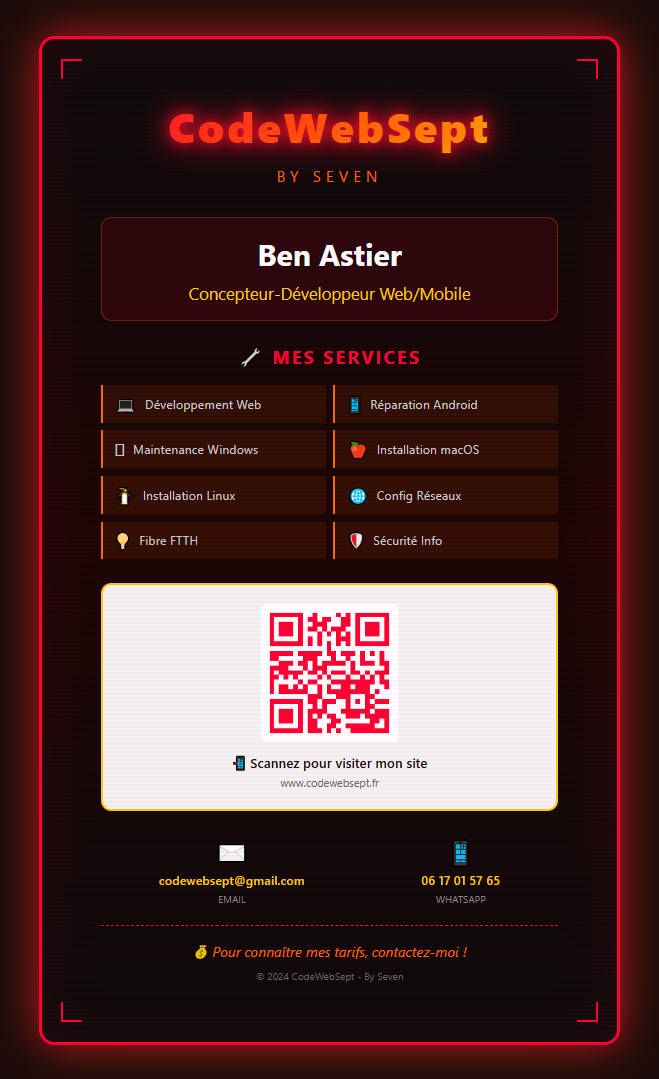
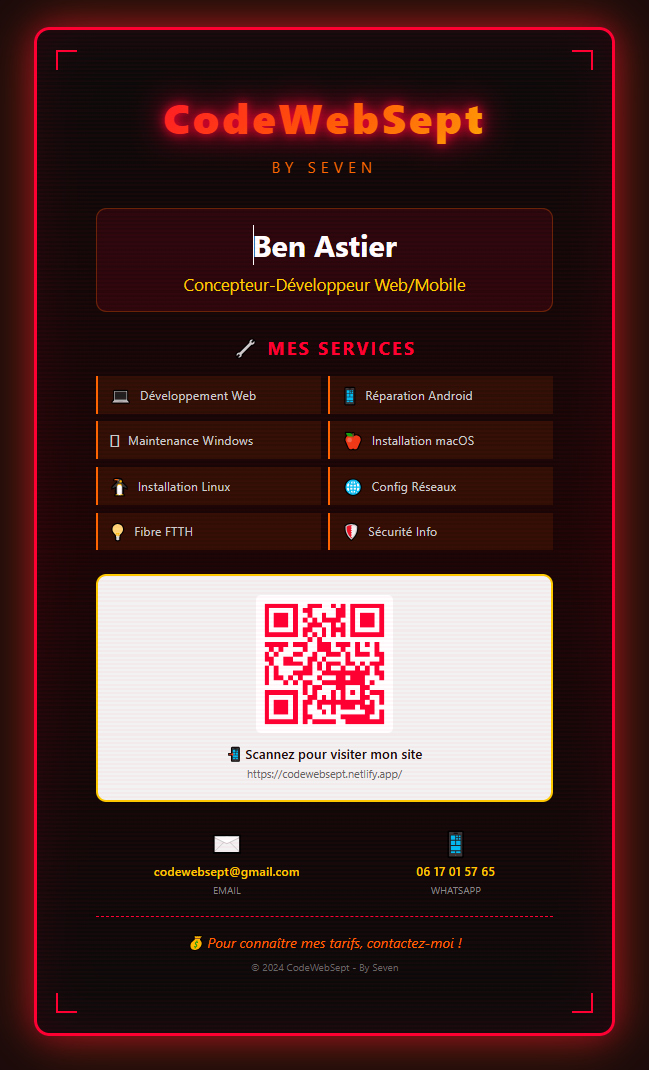
Changement d'URL dans mon QR

diff --git a/assets/html/flyer-codewebsept.html b/assets/html/flyer-codewebsept.html
@@ -383,11 +383,11 @@
             <div class="qr-code">
                 <!-- QR Code généré via API QR Server -->
                 <!-- Remplacez l'URL par votre vrai domaine -->
-                <img src="https://api.qrserver.com/v1/create-qr-code/?size=150x150&data=https://codewebsept.fr&bgcolor=ffffff&color=ff0033" 
+                <img src="https://api.qrserver.com/v1/create-qr-code/?size=150x150&data=https://codewebsept.netlify.app/&bgcolor=ffffff&color=ff0033" 
                     alt="QR Code vers le site CodeWebSept">
             </div>
             <div class="qr-text">📲 Scannez pour visiter mon site</div>
-            <div class="qr-subtext">www.codewebsept.fr</div>
+            <div class="qr-subtext">https://codewebsept.netlify.app/</div>
         </section>
 
         <!-- =============================================
